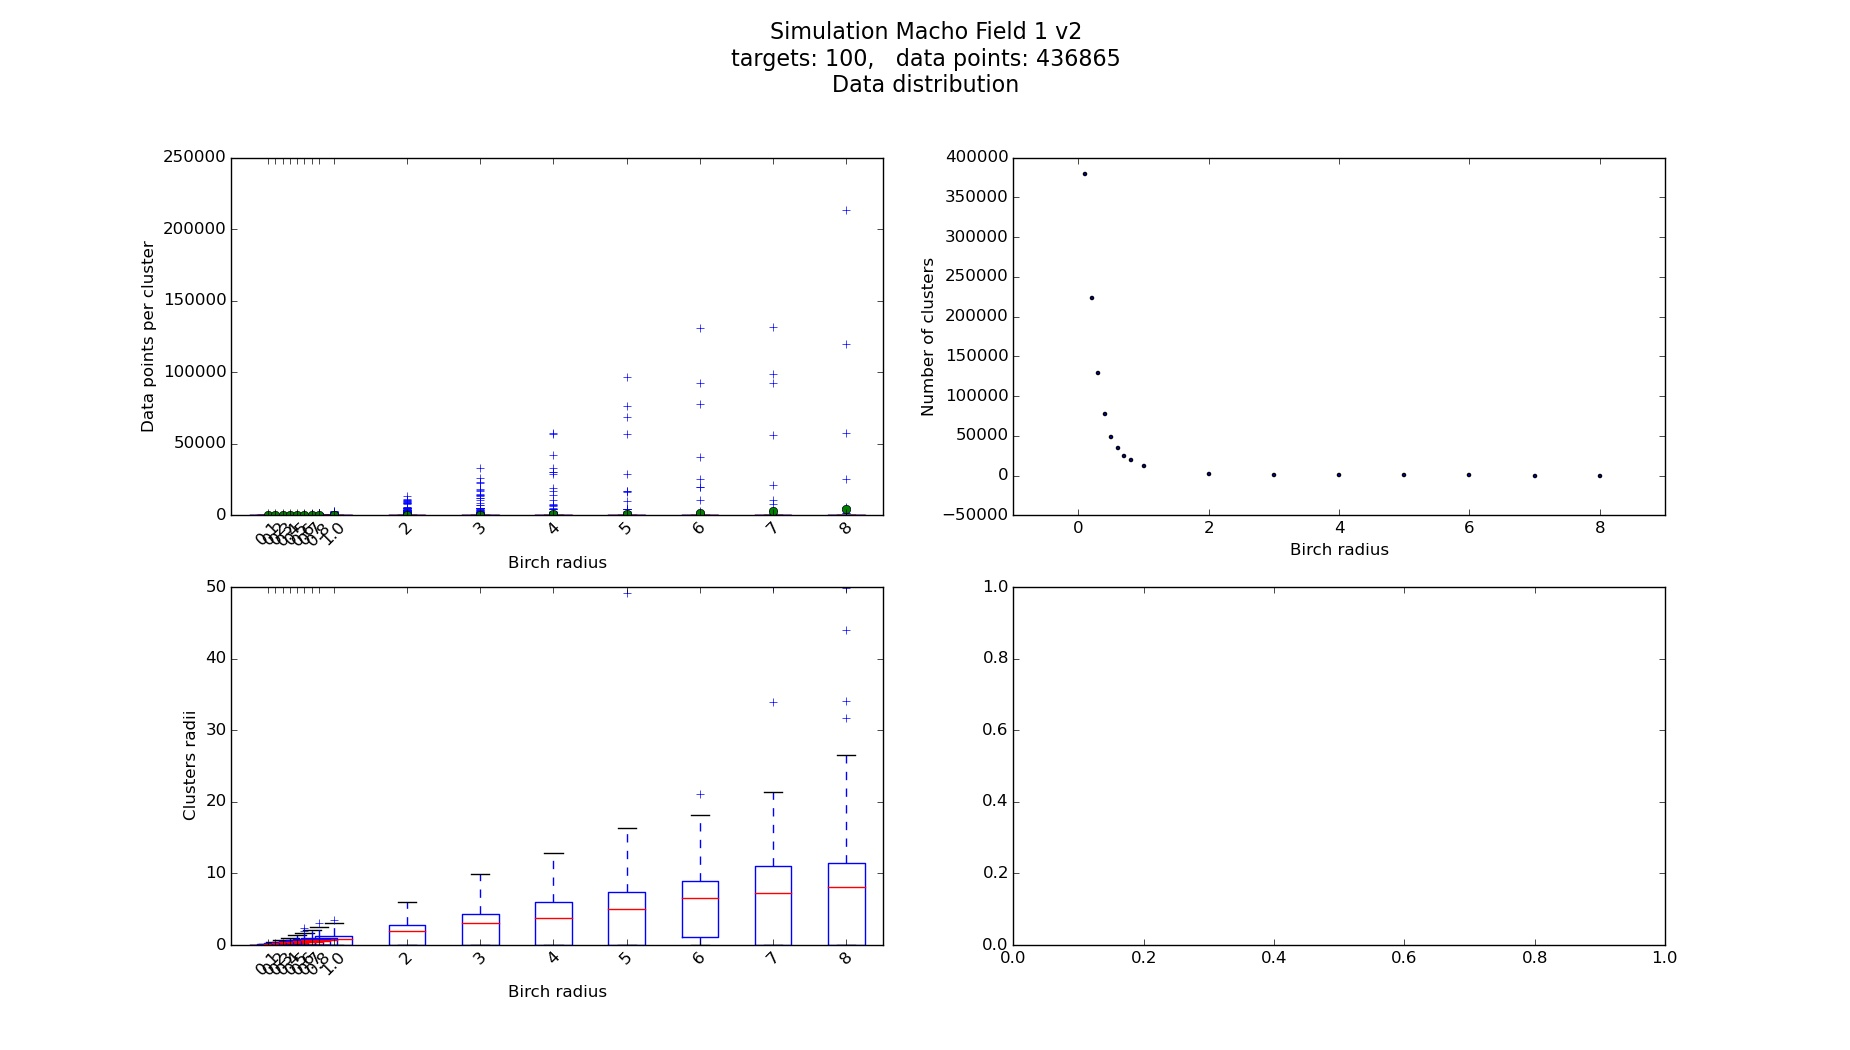
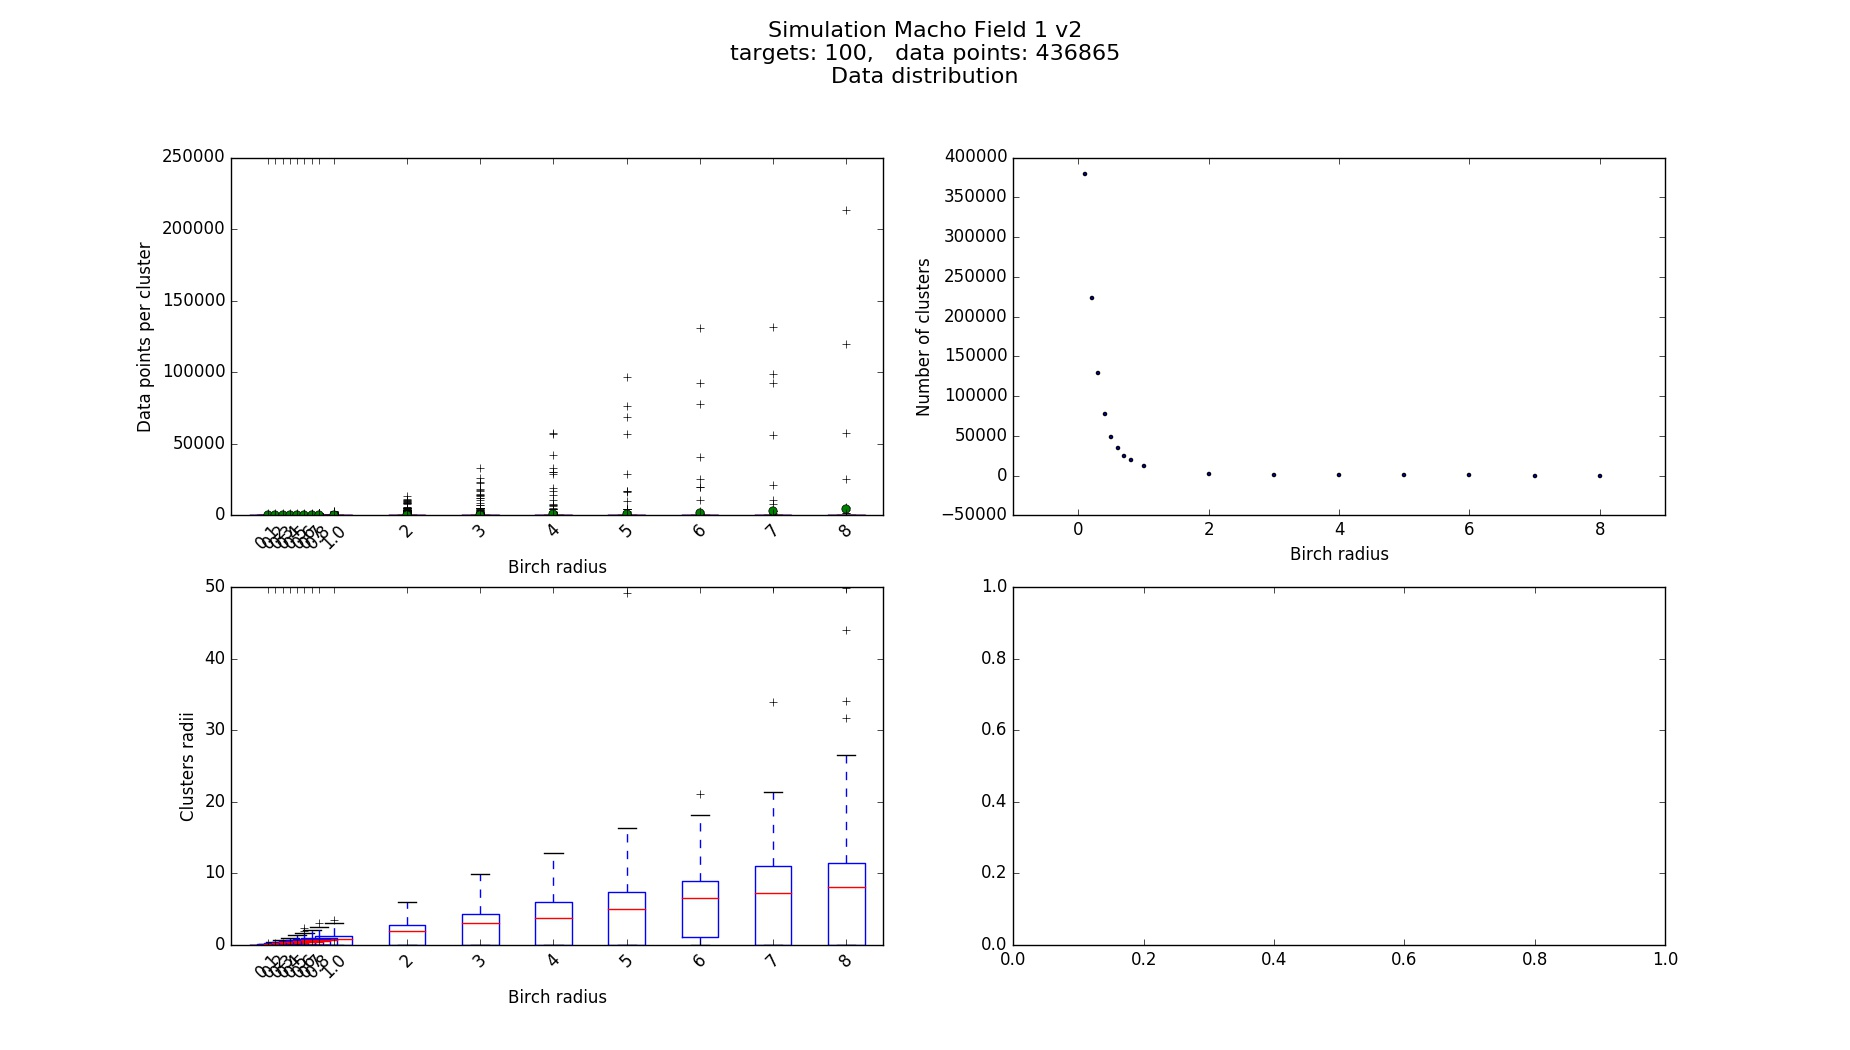
asdf

diff --git a/backend/simulations/simulations_interface.py b/backend/simulations/simulations_interface.py
@@ -125,8 +125,10 @@ class RegressionData(object):
         self._avg_data_points_per_cluster_polyfit_2 = None
         self._clusters_polyfit = None
         self._log_fetched_data_polyfit = None
-
         self._avg_fetched_data_small_radii_slope = None
+
+        self.step1_vs_n_clusters_polyfit = None
+        self.step2_vs_fetched_data_polyfit = None
 
 
         self._do_all_regressions()
@@ -169,6 +171,21 @@ class RegressionData(object):
         self._do_log_fetched_data_regression()
         self._do_step2_time_regression()
         self._do_clusters_after_filter_regression_2()
+        self._do_step1_vs_n_clusters_regression()
+        self._do_step2_vs_fetched_data_regression()
+
+    def _do_step1_vs_n_clusters_regression(self):
+        x = self._simulation_data.n_clusters
+        y = self._simulation_data.mean_step1_times
+        self.step1_vs_n_clusters_polyfit = np.polyfit(x, y, 2)
+
+    def _do_step2_vs_fetched_data_regression(self):
+        x = self._simulation_data.avg_fetched_data_points
+        y = self._simulation_data.mean_step2_times
+        self.step2_vs_fetched_data_polyfit = np.polyfit(x, y, 2)
+
+    def _do_step2_vs_fetched_data_regression(self):
+        pass
 
     def _do_seek_time_regression(self):
         birch_radii = self._simulation_data.birch_radii
@@ -265,6 +282,17 @@ class RegressionData(object):
         y = np.poly1d(self._step2_time_polyfit)(x)
         return x, y
 
+    def _step1_vs_n_clusters_regression(self):
+        x = self._simulation_data.n_clusters
+        y = np.poly1d(self.step1_vs_n_clusters_polyfit)(x)
+        return x, y
+
+    def _step2_vs_fetched_data_regression(self):
+        x = self._simulation_data.avg_fetched_data_points
+        y = np.poly1d(self.step2_vs_fetched_data_polyfit)(x)
+        return x, y
+
+
     def _total_time_regression(self, min=0, max=9, jump=0.1):
         x = np.arange(min, max + jump, jump)
         x_st, y_st = np.exp(self._log_seek_time_regression(min, max, jump))
@@ -334,7 +362,8 @@ class RegressionData(object):
                 os.makedirs(self.name)
         f_a, ((a0, a1), (a2, a3)) = plt.subplots(2, 2)
         f_b, ((b0, b1), (b2, b3)) = plt.subplots(2, 2)
-        # self._plot_seek_time(a1, b1)
+        f_c, ((c0, c1, c2), (c3, c4, c5), (c6, c7, c8)) = plt.subplots(3,3)
+        self._plot_step1_time(c0, c1)
         # self._plot_transfer_time(a2, b2)
         # self._plot_step2_time(a3, b3)
 #        self._plot_seek_time_per_ts(a5, b5)
@@ -352,8 +381,12 @@ class RegressionData(object):
         f_b.suptitle("Simulation {0}\ntargets: {1},   data points: {2}\n"
                    "Regressions in log-log space".format(self._simulation_data.name, self._simulation_data.n_targets,
                                 self._simulation_data._data_points_count), fontsize=16)
+        f_c.suptitle("Simulation {0}\ntargets: {1},   data points: {2}\n"
+                   "Regressions".format(self._simulation_data.name, self._simulation_data.n_targets,
+                                self._simulation_data._data_points_count), fontsize=16)
         f_a.set_size_inches(18.5, 10.5)
         f_b.set_size_inches(18.5, 10.5)
+        f_c.set_size_inches(18.5, 10.5)
         if save:
             plt.figure(f_a.number)
             plt.tight_layout()
@@ -363,52 +396,22 @@ class RegressionData(object):
             plt.tight_layout()
             plt.subplots_adjust(top=0.85)
             plt.savefig(os.path.join(self.name, 'regressions modified space.jpg'))
+            plt.figure(f_c.number)
+            plt.tight_layout()
+            plt.subplots_adjust(top=0.85)
+            plt.savefig(os.path.join(self.name, 'regressions execution times.jpg'))
         else:
             plt.figure(f_a.number)
             plt.show()
             plt.figure(f_b.number)
             plt.show()
 
-    # def _plot_seek_time(self, axis_lin, axis_log):
-    #     x_reg, y_reg = self._seek_time_regression()
-    #     x_data, y_data = self._simulation_data.birch_radii, self._simulation_data.mean_seek_times
-    #     log_x_reg, log_y_reg = self._log_seek_time_regression()
-    #     log_x_data, log_y_data = np.log(x_data), np.log(y_data)
-    #     log_fit = self._log_seek_time_polyfit
-    #     coefficient = np.exp(log_fit[0])
-    #     exponent = log_fit[1]
-    #     sign = '-' if log_fit[2] < 0 else ''
-    #     exponent_2 = np.sqrt(np.abs(log_fit[2]))
-    #     axis_lin.plot(x_reg, y_reg,
-    #              label='$y = {0:.2f}x^{{{1:.2f}}}e^{{ {2}\log^2(x^{{{3:.2f}}})}}$'.format(coefficient, exponent, sign, exponent_2))
-    #     axis_lin.scatter(x_data, y_data)
-    #     axis_lin.legend(prop={'size': 15})
-    #     axis_lin.set_title('Seek Time (ST)', fontsize=12)
-    #     axis_lin.set_xlabel('$R$', fontsize=12)
-    #     axis_lin.set_ylabel('$seconds$', fontsize=12)
-    #     axis_log.plot(log_x_reg, log_y_reg,
-    #              label='$y={0:.2f} + {1:.2f}x + {2:.2f}x^2$'.format(log_fit[2], log_fit[1], log_fit[0]))
-    #     axis_log.scatter(log_x_data, log_y_data)
-    #     axis_log.legend(prop={'size': 15})
-    #     axis_log.set_title('Seek time (ST)', fontsize=12)
-    #     axis_log.set_xlabel('$log(R)$', fontsize=12)
-    #     axis_log.set_ylabel('$log(s)$', fontsize=12)
+    def _plot_step1_time(self, axis_r, axis_nc):
 
-    def _plot_number_of_clusters(self, axis_lin, axis_log):
-        x, y = self._transfer_time_regression()
-        x_data, y_data = self._simulation_data.birch_radii, self._simulation_data.mean_seek_times
-        fit = self._transfer_time_polyfit
-        axis_lin.plot(x, y, label='$y={0:.2f} + {1:.2f}x + {2:.2f}x^2$'.format(fit[2], fit[1], fit[0]))
-        axis_lin.scatter(x_data, y_data)
-        axis_lin.legend(loc=4, prop={'size': 15})
-        axis_lin.set_title('Total number of clusters ($N_c$)', fontsize=12)
-        axis_lin.set_xlabel('$R$', fontsize=12)
-        axis_lin.set_ylabel('$# clusters$', fontsize=12)
-        axis_log.scatter(np.log(x_data), np.log(y_data))
-        axis_log.legend(loc=4, prop={'size': 15})
-        axis_log.set_title('Total number of clusters ($N_c$)', fontsize=12)
-        axis_log.set_xlabel('$log(R)$', fontsize=12)
-        axis_log.set_ylabel('$log(# clusters)$', fontsize=12)
+        nc_data, r_data, y_data = self._simulation_data.n_clusters, \
+                                  self._simulation_data.birch_radii, self._simulation_data.mean_step1_times
+        axis_nc.scatter(nc_data, y_data)
+        axis_r.scatter(r_data, y_data)
 
     def _plot_transfer_time(self, axis_lin, axis_log):
         x, y = self._transfer_time_regression()
@@ -595,8 +598,12 @@ class SimulationData(object):
         return np.array([np.mean(seek_times) for seek_times in self._seek_times])
 
     @property
-    def mean_transfer_times(self):
-        return np.array([np.mean(times) for times in self._transfer_times])
+    def mean_fetching_times(self):
+        return np.array([np.mean(times) for times in self._fetching_times])
+
+    @property
+    def mean_step1_times(self):
+        return np.array([np.mean(times) for times in self._step1_calc_times])
 
     @property
     def mean_step2_times(self):
@@ -726,7 +733,6 @@ class SimulationData(object):
 
     def plot_log_seek_time(self, save=False):
         f, (ax0, ax1) = plt.subplots(2)
-
         birch_radii = np.array(self._birch_radii)
         mean_seek_times = [np.mean(seek_times) for seek_times in self._seek_times]
         log_birch_radii = np.log(self._birch_radii)
@@ -782,24 +788,28 @@ class SimulationData(object):
     def plot_times(self, save=False):
         f, ((ax0, ax1), (ax2, ax3)) = plt.subplots(2, 2)
         ax0.boxplot(self._step1_calc_times, positions=self._birch_radii)
+        ax0.plot(self._birch_radii, self.mean_step1_times, 'o', color='green')
         ax0.set_xticks(self._birch_radii)
         ax0.set_xticklabels(self._birch_radii, rotation=45)
         ax0.set_ylabel('Time (seconds)')
         ax0.set_xlabel('Birch radius')
         ax0.set_title('Step 1 calculations')
         ax1.boxplot(self._step2_calc_times, positions=self._birch_radii)
+        ax1.plot(self._birch_radii, self.mean_step2_times, 'o', color='green')
         ax1.set_xticks(self._birch_radii)
         ax1.set_xticklabels(self._birch_radii, rotation=45)
         ax1.set_ylabel('Time (seconds)')
         ax1.set_xlabel('Birch radius')
         ax1.set_title('Step 2 calculations')
         ax2.boxplot(self._fetching_times, positions=self._birch_radii)
+        ax2.plot(self._birch_radii, self.mean_fetching_times, 'o', color='green')
         ax2.set_xticks(self._birch_radii)
         ax2.set_xticklabels(self._birch_radii, rotation=45)
         ax2.set_xlabel('Birch radius')
         ax2.set_ylabel('Time (seconds)')
         ax2.set_title('Fetching time')
         ax3.boxplot(self._total_times, positions=self._birch_radii)
+        ax3.plot(self._birch_radii, self.mean_total_times, 'o', color='green')
         ax3.set_xticks(self._birch_radii)
         ax3.set_xticklabels(self._birch_radii, rotation=45)
         ax3.set_ylabel('Time (seconds)')

diff --git a/backend/simulations/total_time.py b/backend/simulations/total_time.py
@@ -66,11 +66,11 @@ class ExecutionTimes(object):
         step2 = self.step2_time(x)
         total = step1 + seek + transfer + step2
         f, ax = plt.subplots(1)
-        ax.plot(x, step1, label='step 1')
-        ax.plot(x, seek, label='seek')
-        ax.plot(x, transfer, label='transfer')
-        ax.plot(x, step2, label='step 2')
-        ax.plot(x, total, label='total')
+        ax.plot(np.log(x), step1, label='step 1')
+        ax.plot(np.log(x), seek, label='seek')
+        ax.plot(np.log(x), transfer, label='transfer')
+        ax.plot(np.log(x), step2, label='step 2')
+        ax.plot(np.log(x), total, label='total')
         ax.legend(prop={'size': 15})
         ax.set_title('Execution times', fontsize=12)
         ax.set_xlabel('$R$', fontsize=12)
@@ -81,7 +81,7 @@ class ExecutionTimes(object):
 
 if __name__ == '__main__':
     cpu_speed = 2000 # MB/s
-    seek_time_per_cluster = 0.0000015 #seconds
+    seek_time_per_cluster = 0.000015 #seconds
     transfer_rate = 250 # MB/s
     light_curve_size = 5
     gpu_speed = 1
